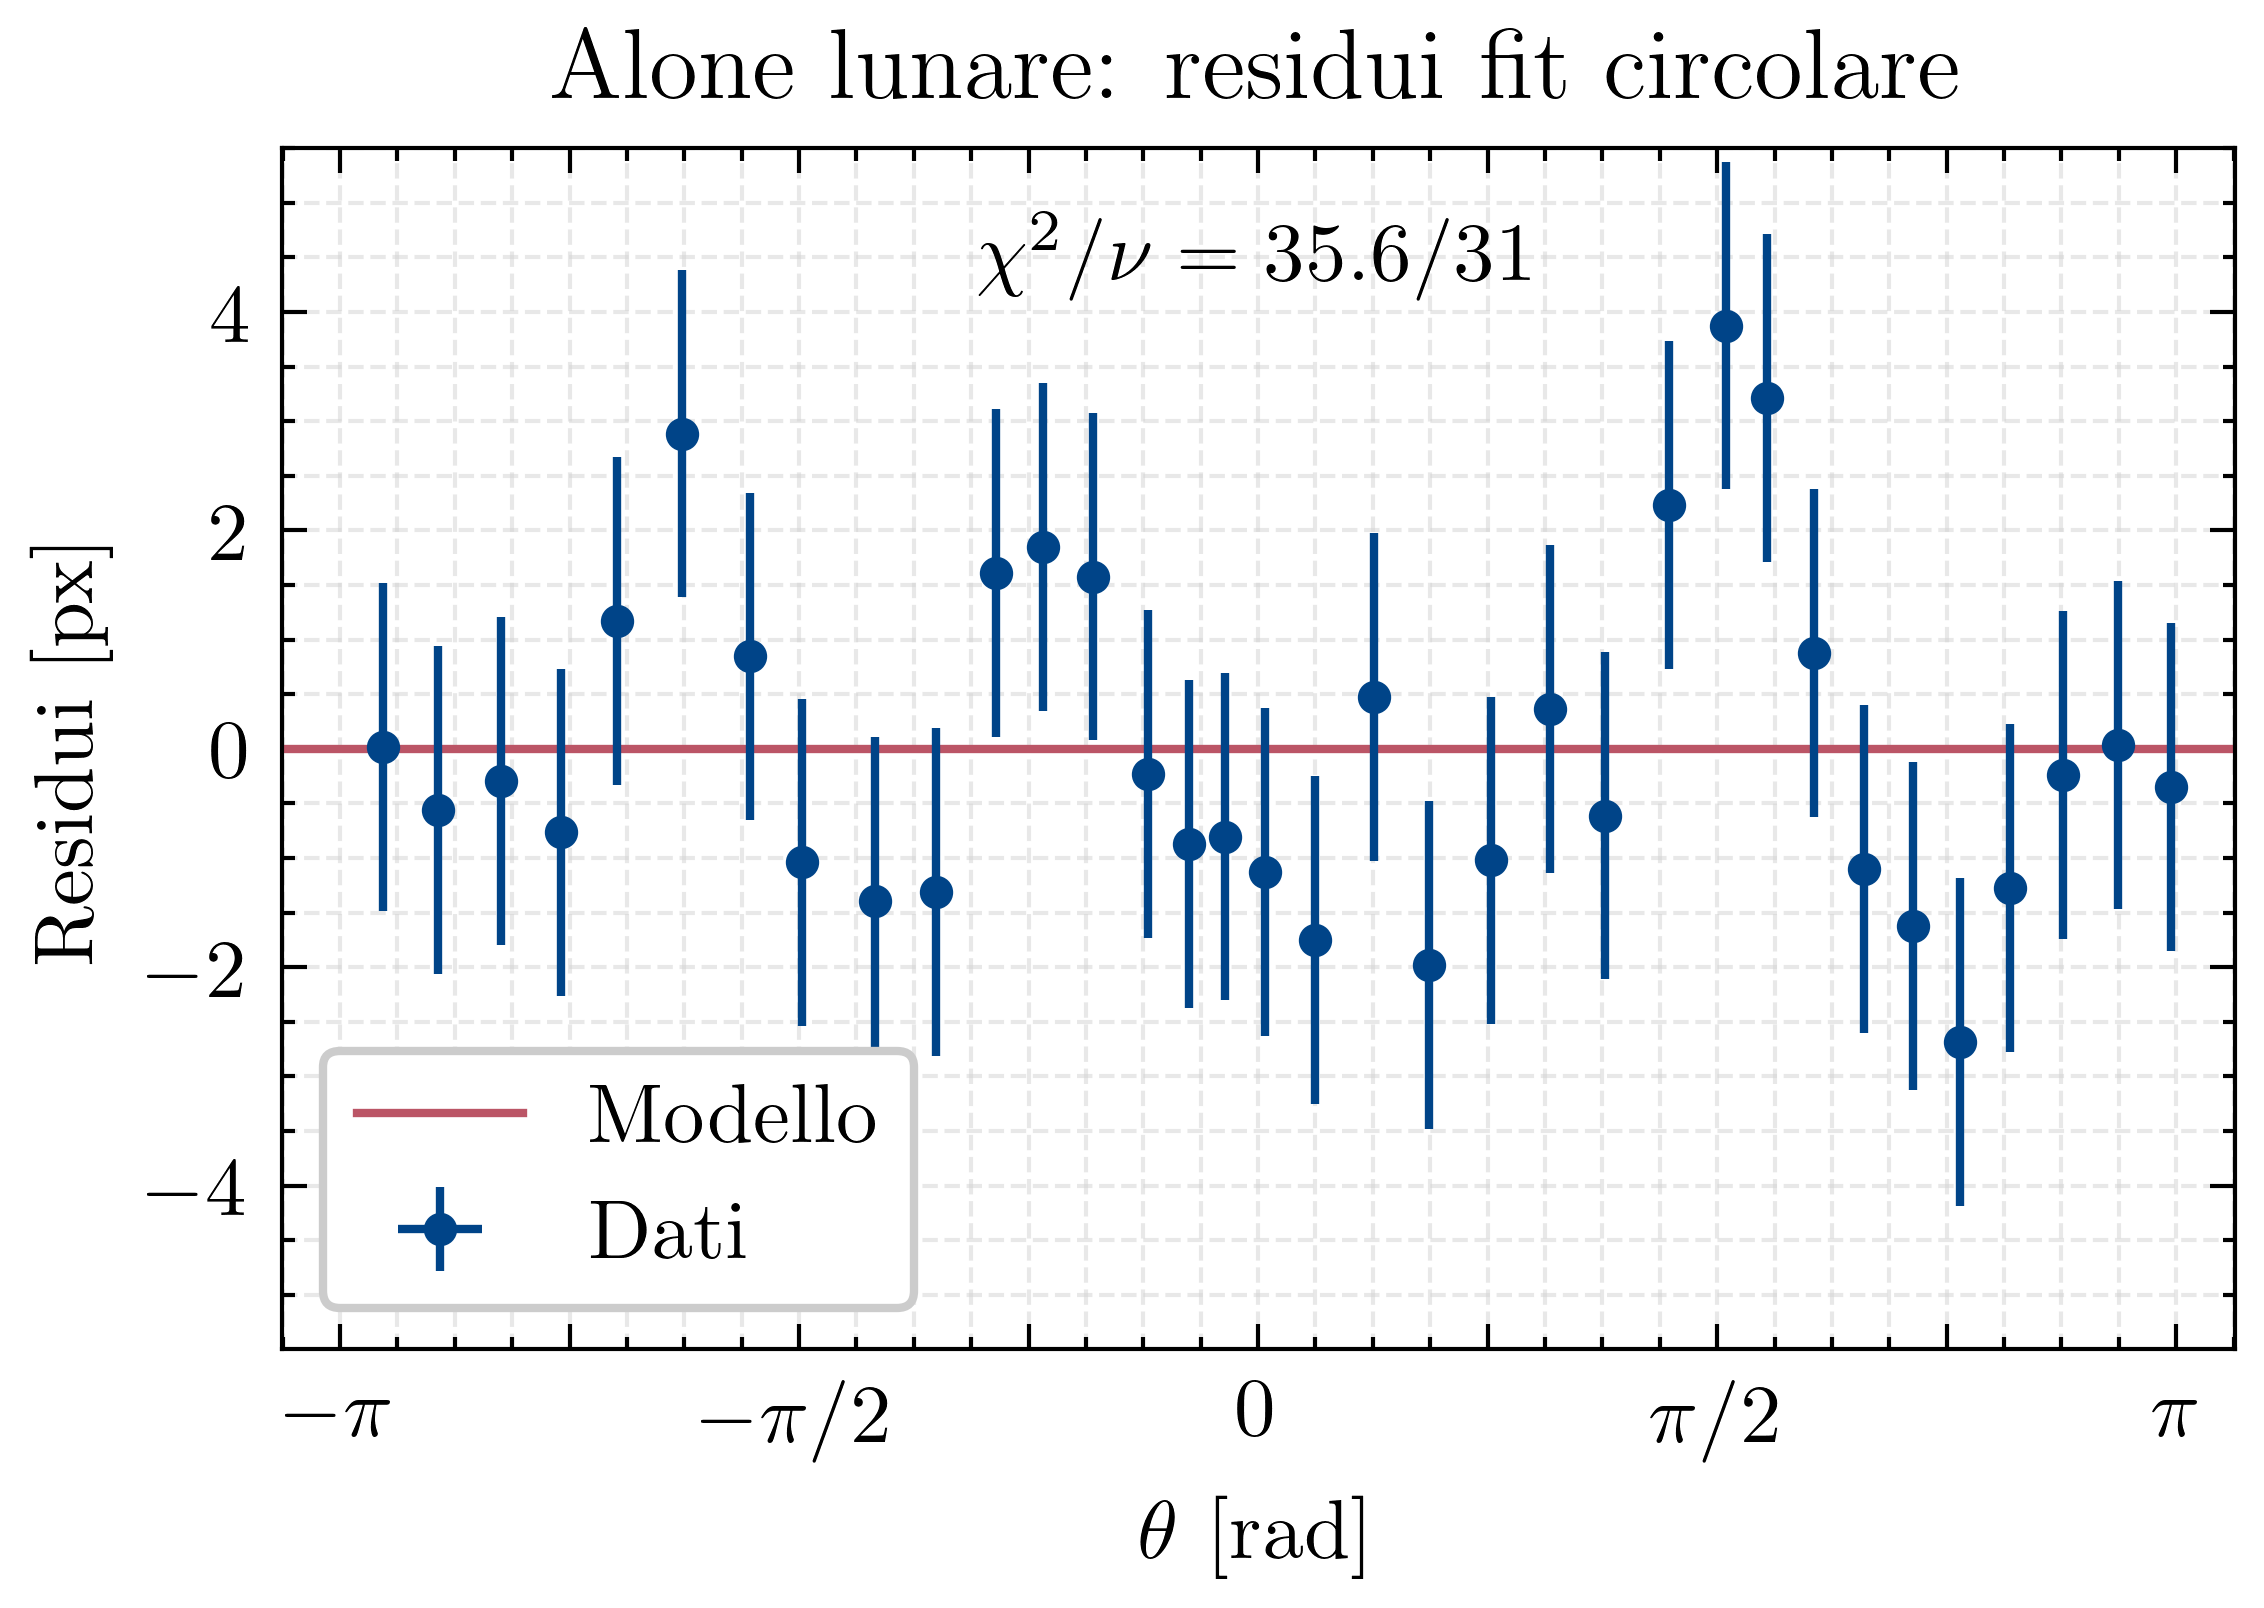
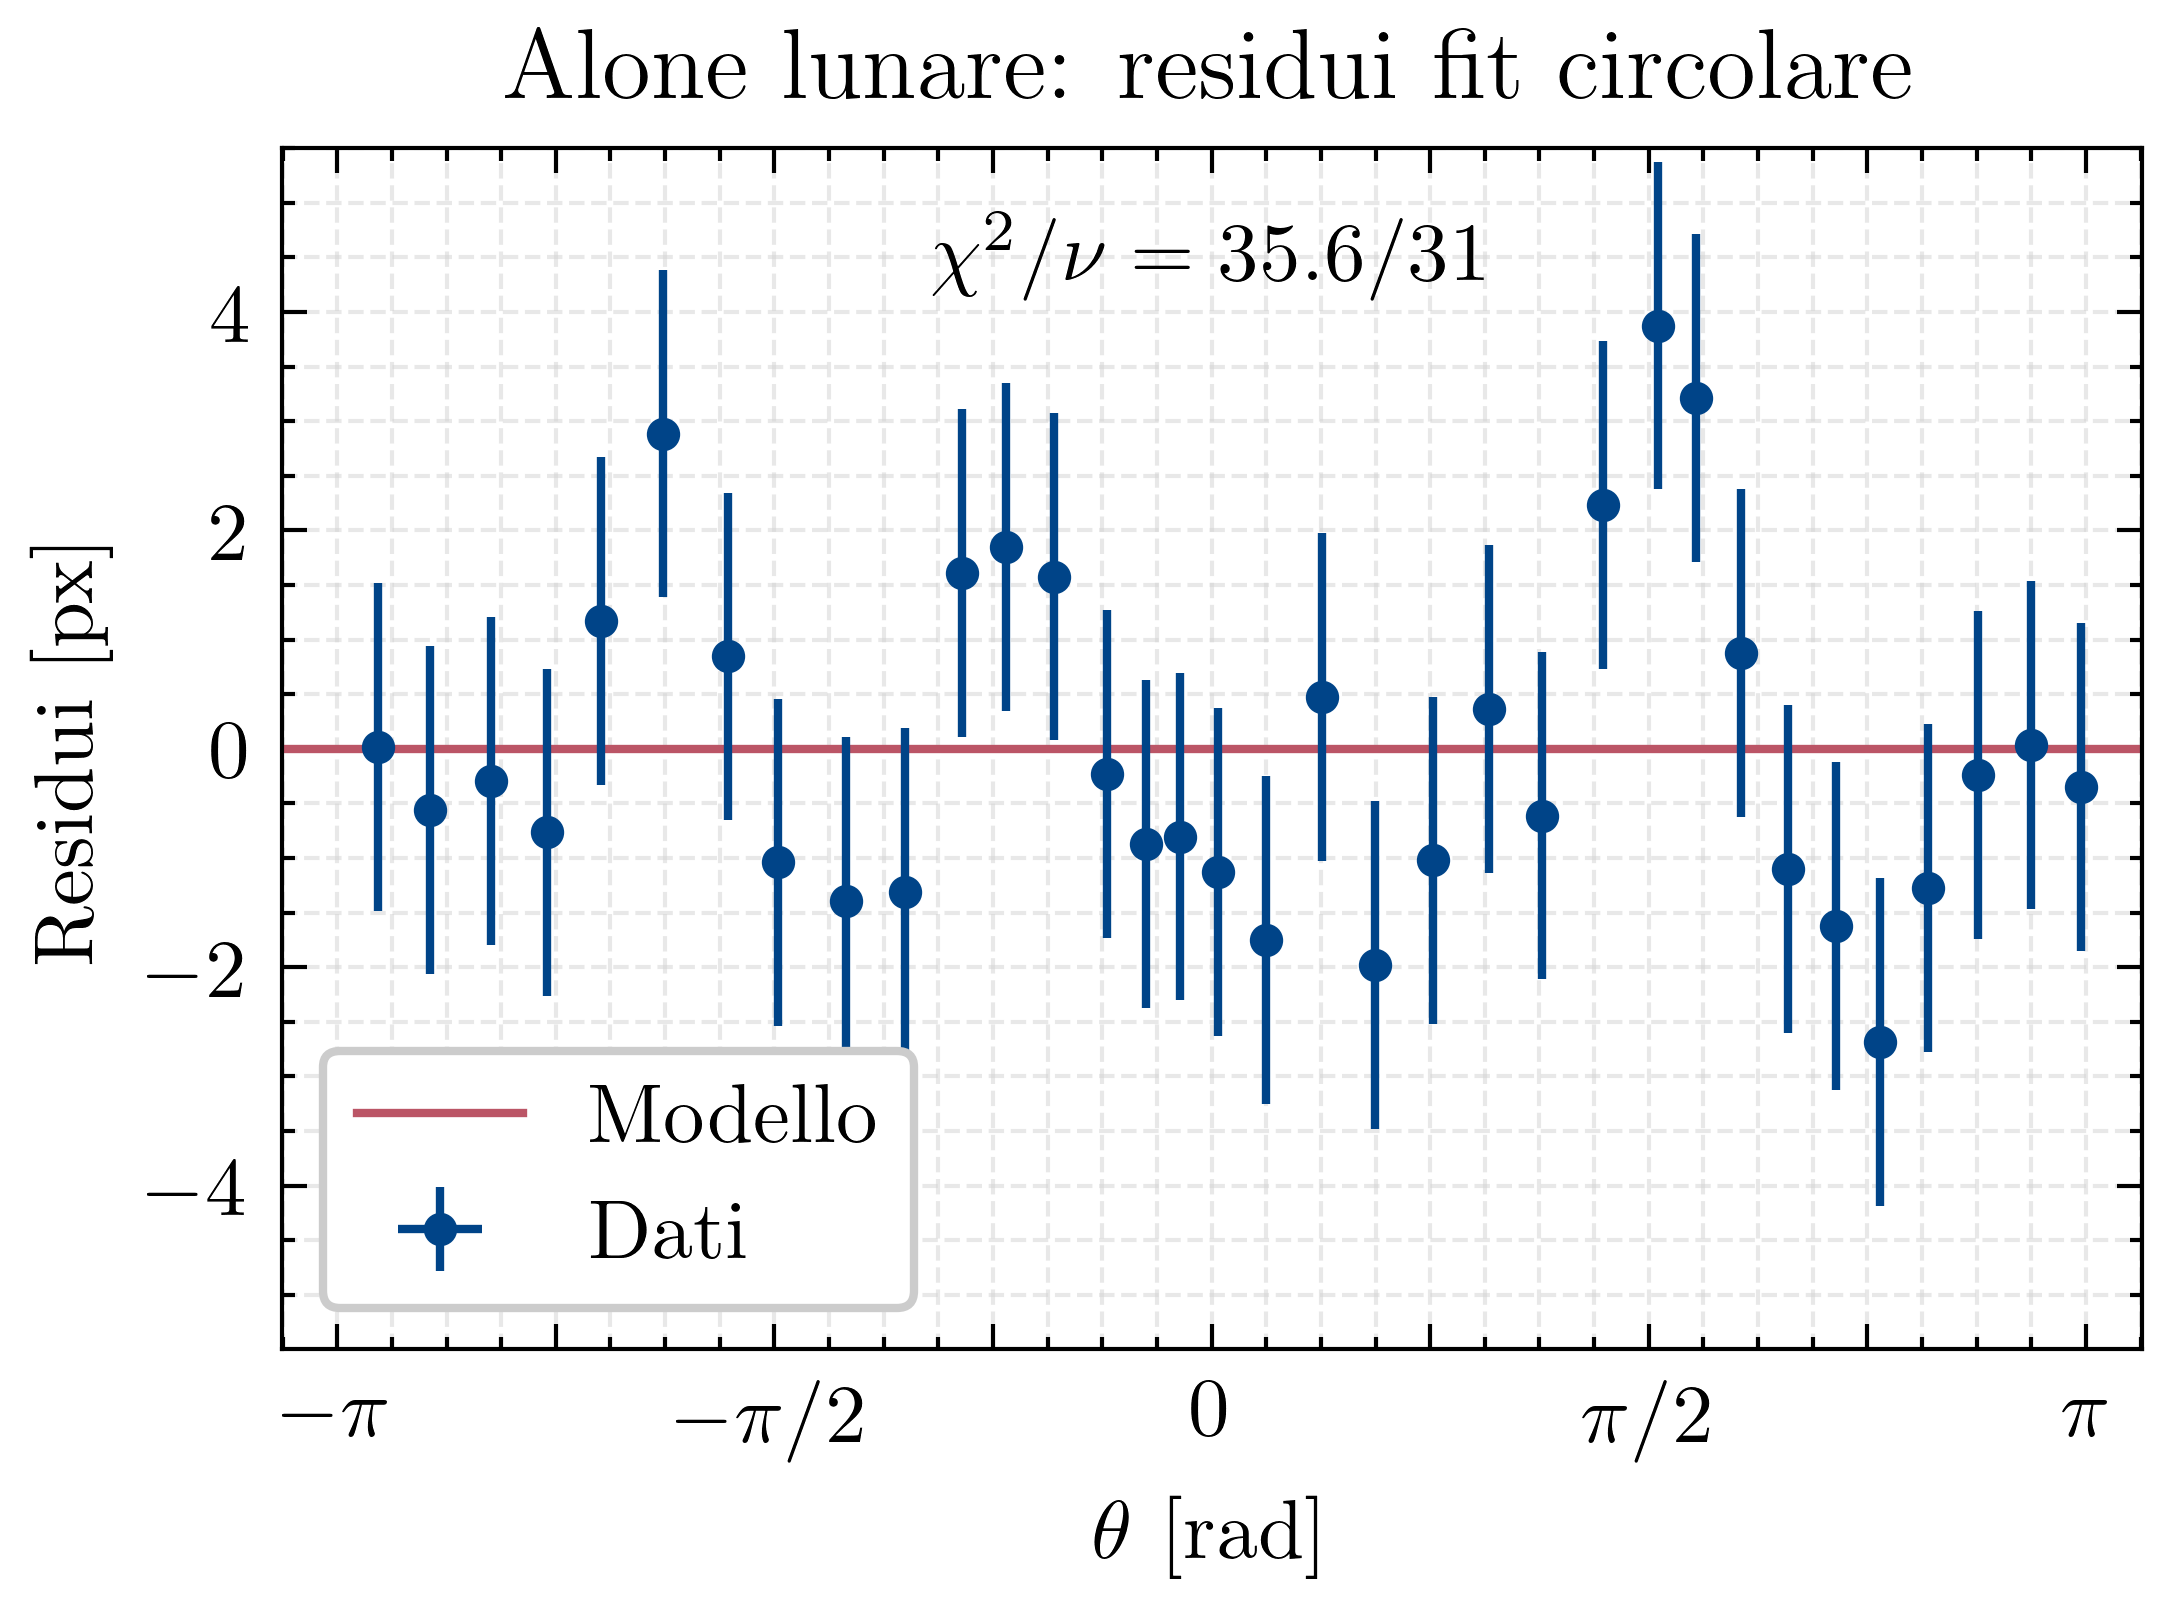
refractive index calculations

diff --git a/second_semester/alone_lunare/alone_lunare.py b/second_semester/alone_lunare/alone_lunare.py
@@ -3,7 +3,7 @@ import json
 import itertools
 from scipy.optimize import minimize, curve_fit
 from utils import fmt_measure
-from draw_plot import draw_halo, draw_halo_residuals
+from draw_plot import draw_halo, draw_halo_residuals, draw_refractive_index
 
 
 def ang_dist(alpha_A, delta_A, alpha_B, delta_B):
@@ -139,7 +139,7 @@ print(f"\nlunar halo angular radius:\n\t{angular_radius:.4g} rad, or")
 print(f"\t{angular_radius_deg:.4g} degrees")
 
 # plot halo datapoints and circular best-fit
-# draw_halo(x, y, err, px_to_rad, x0, y0, R, stars, pairs, ang_dists)
+draw_halo(x, y, err, px_to_rad, x0, y0, R, stars, pairs, ang_dists)
 
 r = (x - x0, y - y0)  # datapoints relative positions
 res = np.sqrt(r[0] ** 2 + r[1] ** 2) - R  # residuals
@@ -149,4 +149,54 @@ indexes = np.argsort(theta)
 theta = theta[indexes]
 res = res[indexes]
 
+# plot circular fit residuals
 draw_halo_residuals(theta, res, err, R, chi2, dof)
+
+
+def refractive_index(theta_min, apex_angle):
+    """Returns the refractive index knowing
+    minimum angle of deviation and apex angle"""
+
+    return np.sin((theta_min + apex_angle) / 2) / np.sin(apex_angle / 2)
+
+
+def vertex_angle(n):
+    """Returns the vertex angle of a regular polygon with n sides"""
+
+    return (n - 2) * np.pi / n
+
+
+def to_radians(degrees):
+    """degree -> radians conversion"""
+    return degrees / 180 * np.pi
+
+
+# apex angles of regular polygons (3 to 8 sides)
+apex_angles_reg_poly = np.array(
+    [
+        vertex_angle(3),  # triangle
+        vertex_angle(4),  # square
+        to_radians(120) - vertex_angle(5),  # pentagon
+        vertex_angle(6) / 2,  # hexagon
+        to_radians(540) - 4 * vertex_angle(7),  # heptagon
+        to_radians(180) - vertex_angle(8),  # octagon
+    ]
+)
+y_poly = refractive_index(angular_radius, apex_angles_reg_poly)
+
+# refractive_index() graph
+xx = np.linspace(0.01, 2 * np.pi - 0.01, 100)
+yy = refractive_index(angular_radius, xx)
+
+# special polygons labels
+poly_labels = ["$3/6$\nlati", "$4$\nlati", "$5$\nlati", "", "$7$\nlati", "$8$\nlati"]
+# draw refractive_index() graph
+draw_refractive_index(xx, yy, apex_angles_reg_poly, y_poly, poly_labels)
+
+# print results for regular polygons
+print("\nrefractive indexes for regular polygons (3 to 8 sides):")
+print("\tsides\tvertex angle\tapex angle\tn")
+for i, (alpha, n) in enumerate(zip(apex_angles_reg_poly, y_poly)):
+    print(
+        f"\t{i+3}\t{vertex_angle(i+3)/np.pi*180:.2f}°\t\t{alpha/np.pi*180:.2f}°\t\t{n:.3f}"
+    )

diff --git a/second_semester/alone_lunare/draw_plot.py b/second_semester/alone_lunare/draw_plot.py
@@ -110,7 +110,7 @@ def draw_halo_residuals(
 
     # setup plot
     plt.style.use(["science", "grid"])
-    fig = plt.figure(figsize=(4.2, 2.6), dpi=600)
+    fig = plt.figure(figsize=(4, 2.6), dpi=600)
 
     # datapoints
     ax = fig.add_subplot(111)
@@ -146,6 +146,72 @@ def draw_halo_residuals(
     ax.set_xlabel("$\\theta$ [rad]")
     ax.set_ylabel("Residui [px]")
     ax.legend(loc="lower left")
+    ax.grid(which="both", axis="both", color="lightgray", zorder=0)
+
+    plt.savefig(filename)
+
+
+def draw_refractive_index(
+    x, y, x_poly, y_poly, labels_poly, filename="graphs/refractive_index.png"
+):
+
+    # setup plot
+    plt.style.use(["science", "grid"])
+    fig = plt.figure(figsize=(4, 2.6), dpi=600)
+
+    # graph
+    ax = fig.add_subplot(111)
+    ax.plot(x, y, color=color_fit, label="$n(\\alpha)$", zorder=2)
+
+    # horizontal line at n=1
+    # ax.axhline(1, color="#000000", linestyle="--", zorder=1)
+
+    # horizontal line connecting to triangle/hexagon
+    ax.axhline(1.3, color=color_data, ls="--", label="$n = 1.3$", zorder=4)
+
+    # vertical lines (regular polygons)
+    for i, (xx, yy, label) in enumerate(zip(x_poly, y_poly, labels_poly)):
+
+        if i != 3:  # skip hexagon since it's equal to triangle
+
+            # vertical line
+            if i == 0:
+
+                # add label
+                ax.axvline(
+                    xx,
+                    ls="--",
+                    color="gray",
+                    label="prismi\nregolari",
+                    alpha=alpha_fit,
+                    zorder=3,
+                )
+
+            else:
+
+                # don't add label
+                ax.axvline(xx, ls="--", color="gray", alpha=alpha_fit, zorder=3)
+
+            ax.scatter(xx, yy, s=6, zorder=5)
+            ax.text(
+                xx, 3.6, label, ha="center", va="center", color="gray", bbox=text_bbox
+            )
+
+    # xticks in multiples of pi
+    # https://stackoverflow.com/a/61737382
+    ax.set_xticks(np.arange(0, np.pi + np.pi / 8 + 0.01, np.pi / 4))
+    labels = ["0", "$\pi/4$", "$\pi/2$", "$3\pi/4$", "$\pi$"]
+    ax.set_xticklabels(labels)
+
+    # x, y limits
+    ax.set_xlim((0, np.pi - np.pi / 8))
+    ax.set_ylim((0.65, 4))
+
+    # grid, labels, legend
+    ax.set_title("Indice di rifrazione")
+    ax.set_xlabel("$\\alpha$ [rad]")
+    ax.set_ylabel("$n$")
+    ax.legend(loc="upper right")
     ax.grid(which="both", axis="both", color="lightgray", zorder=0)
 
     plt.savefig(filename)
